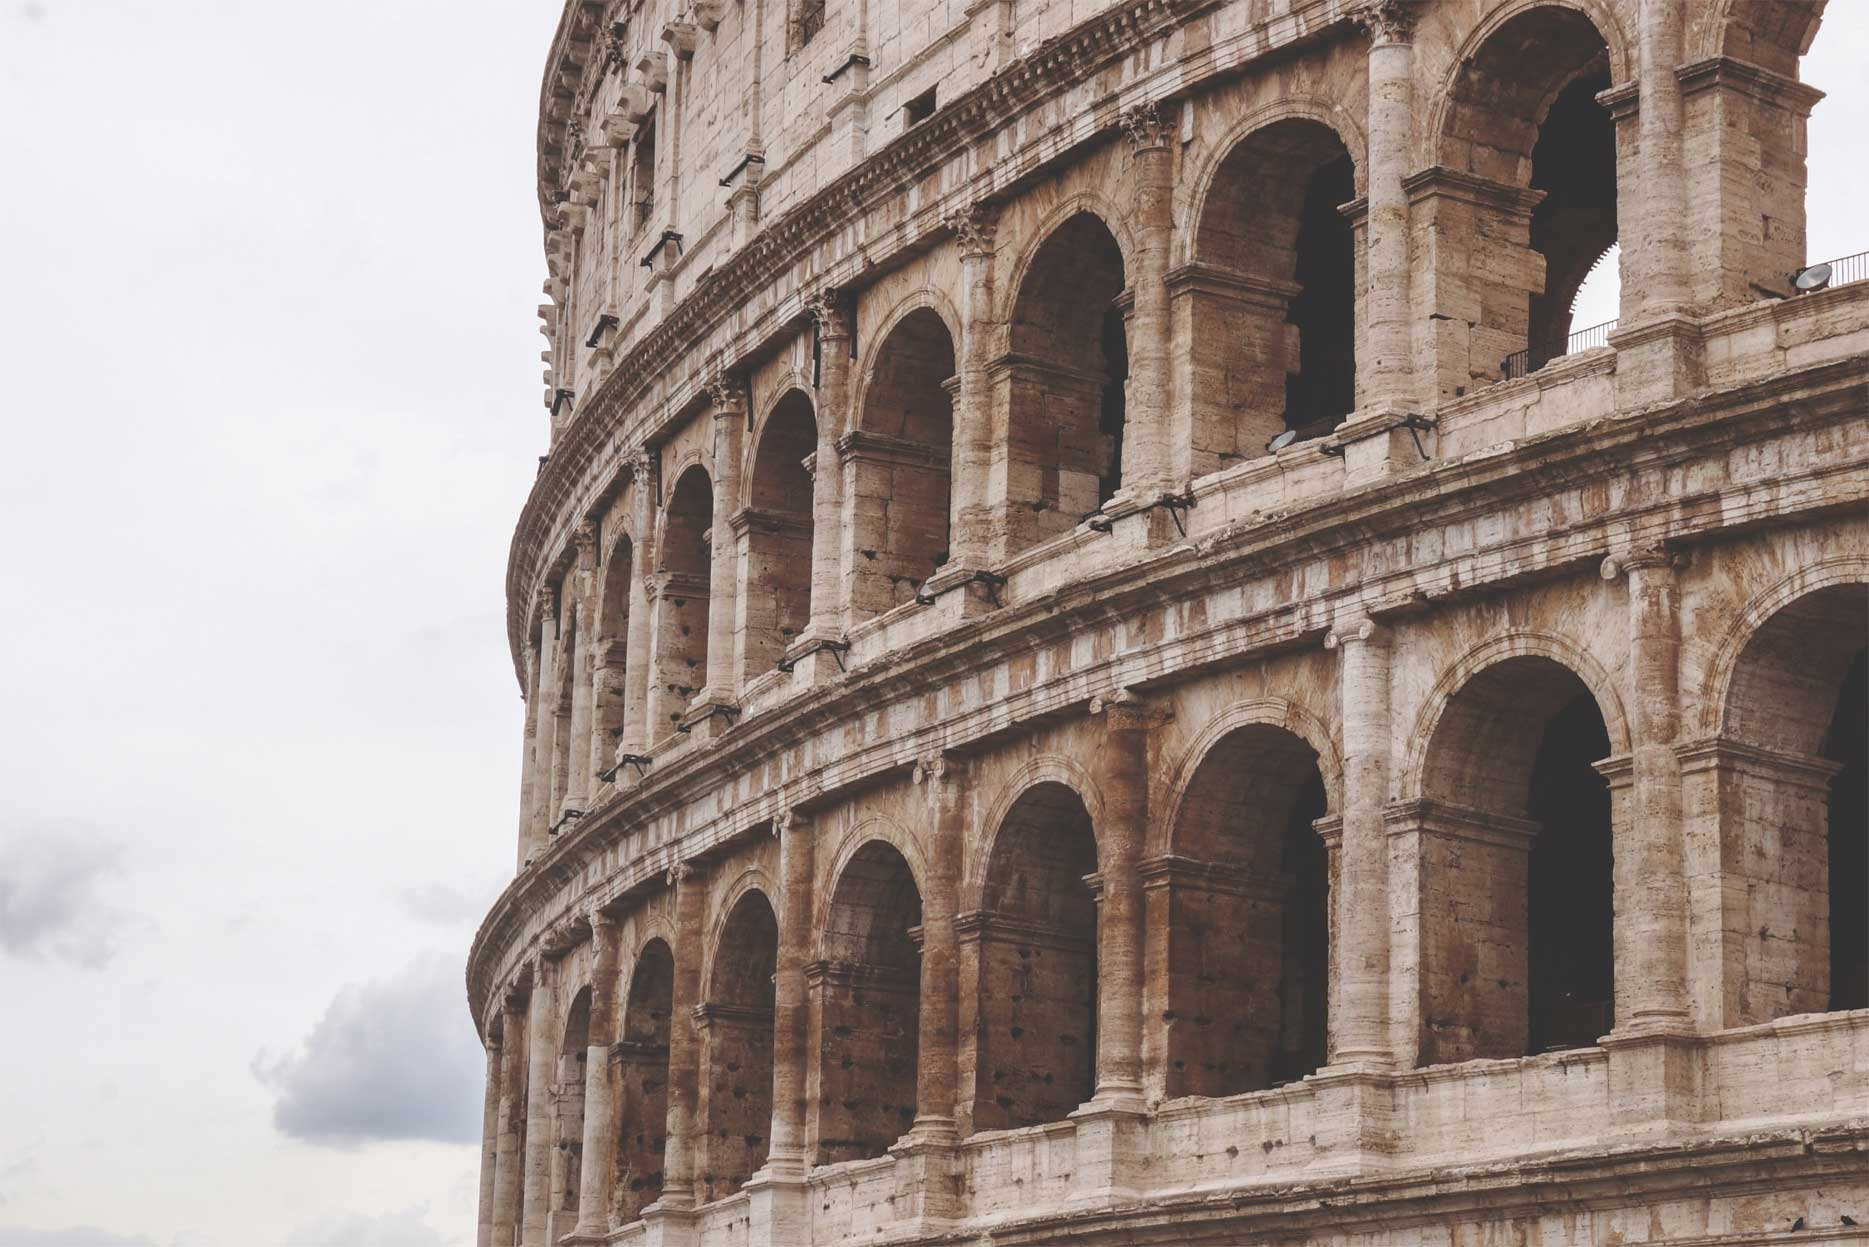
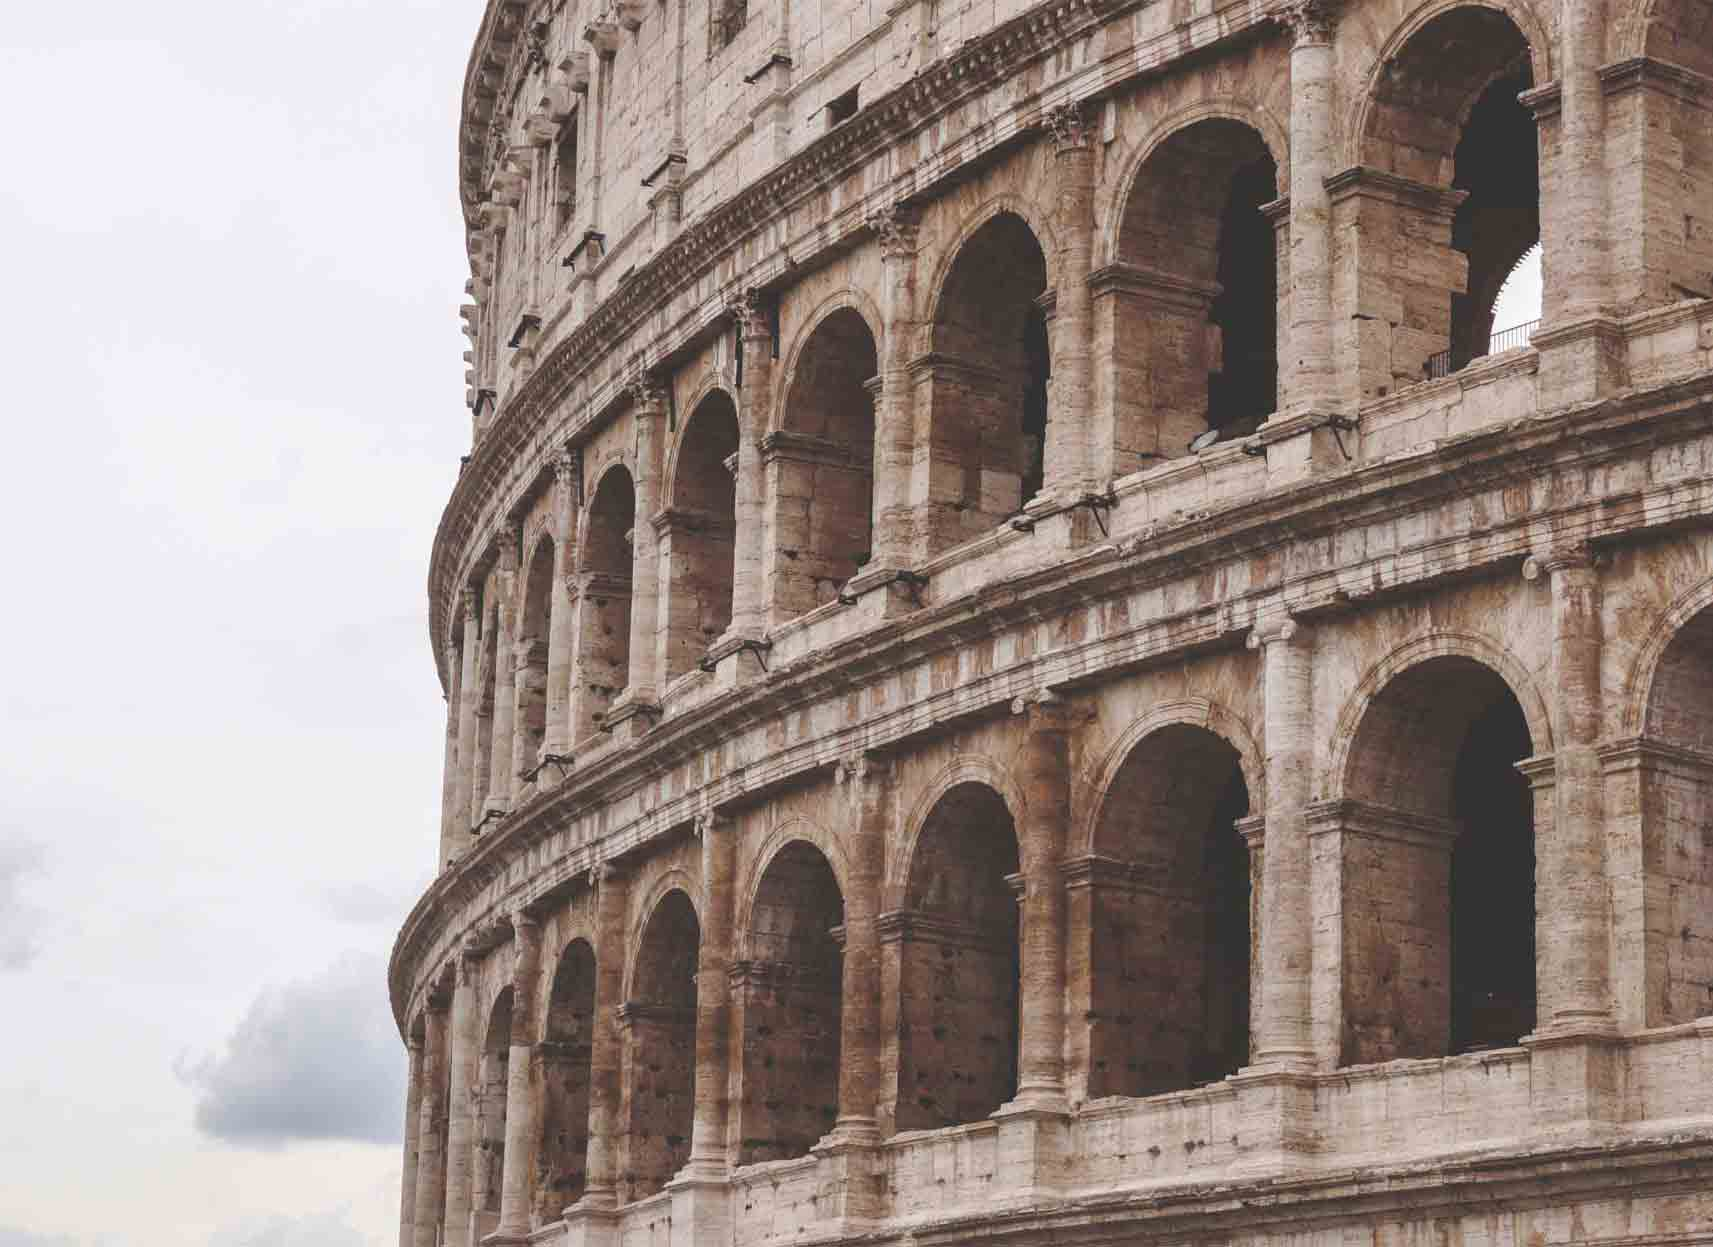
最后更新

diff --git a/index.html b/index.html
@@ -48,7 +48,7 @@
 	<![endif]-->
 
 	</head>
-	<body style="background-image: url(images/bg_img.webp);">
+	<body style="background-image: url(images/bg_img.jpg);">
 	
 	<div id="fh5co-main">
 		<div class="fh5co-tab-wrap">
@@ -190,7 +190,7 @@
 					<div class="row row-bottom-padded-sm">
 						<div class="col-md-12">
 							<figure>
-								<img src="images/wechat.webp" style="width:100%">
+								<img src="images/wechat.jpg" style="width:100%">
 							</figure>							
 							<p>长按加我微信</p>
 						</div>
